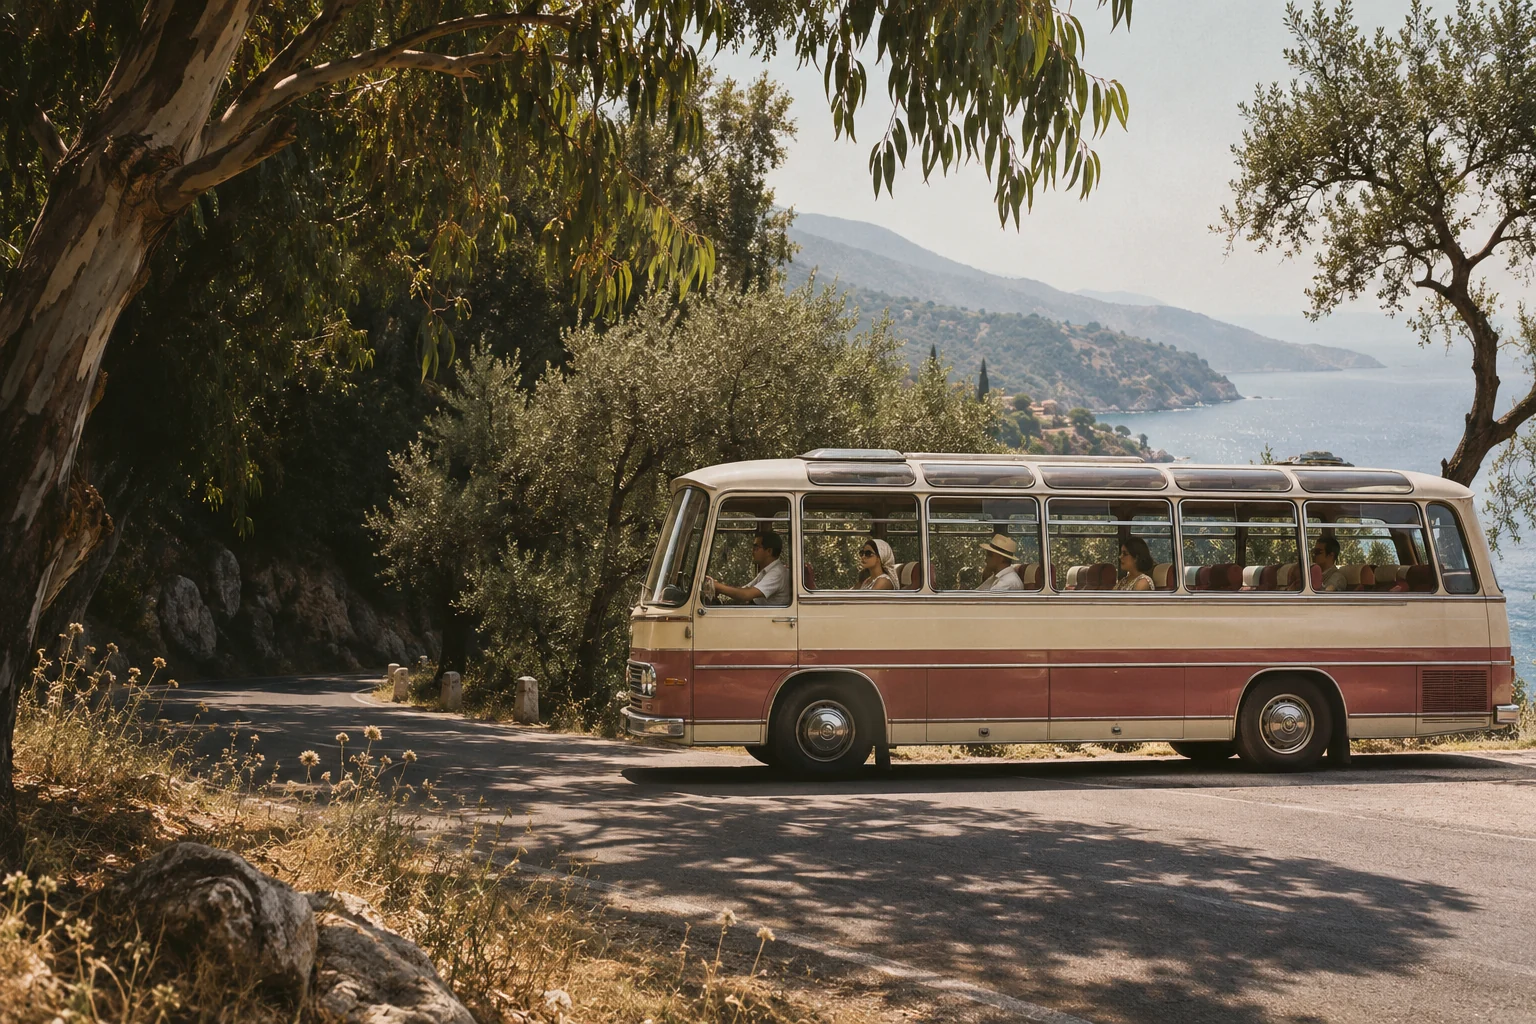
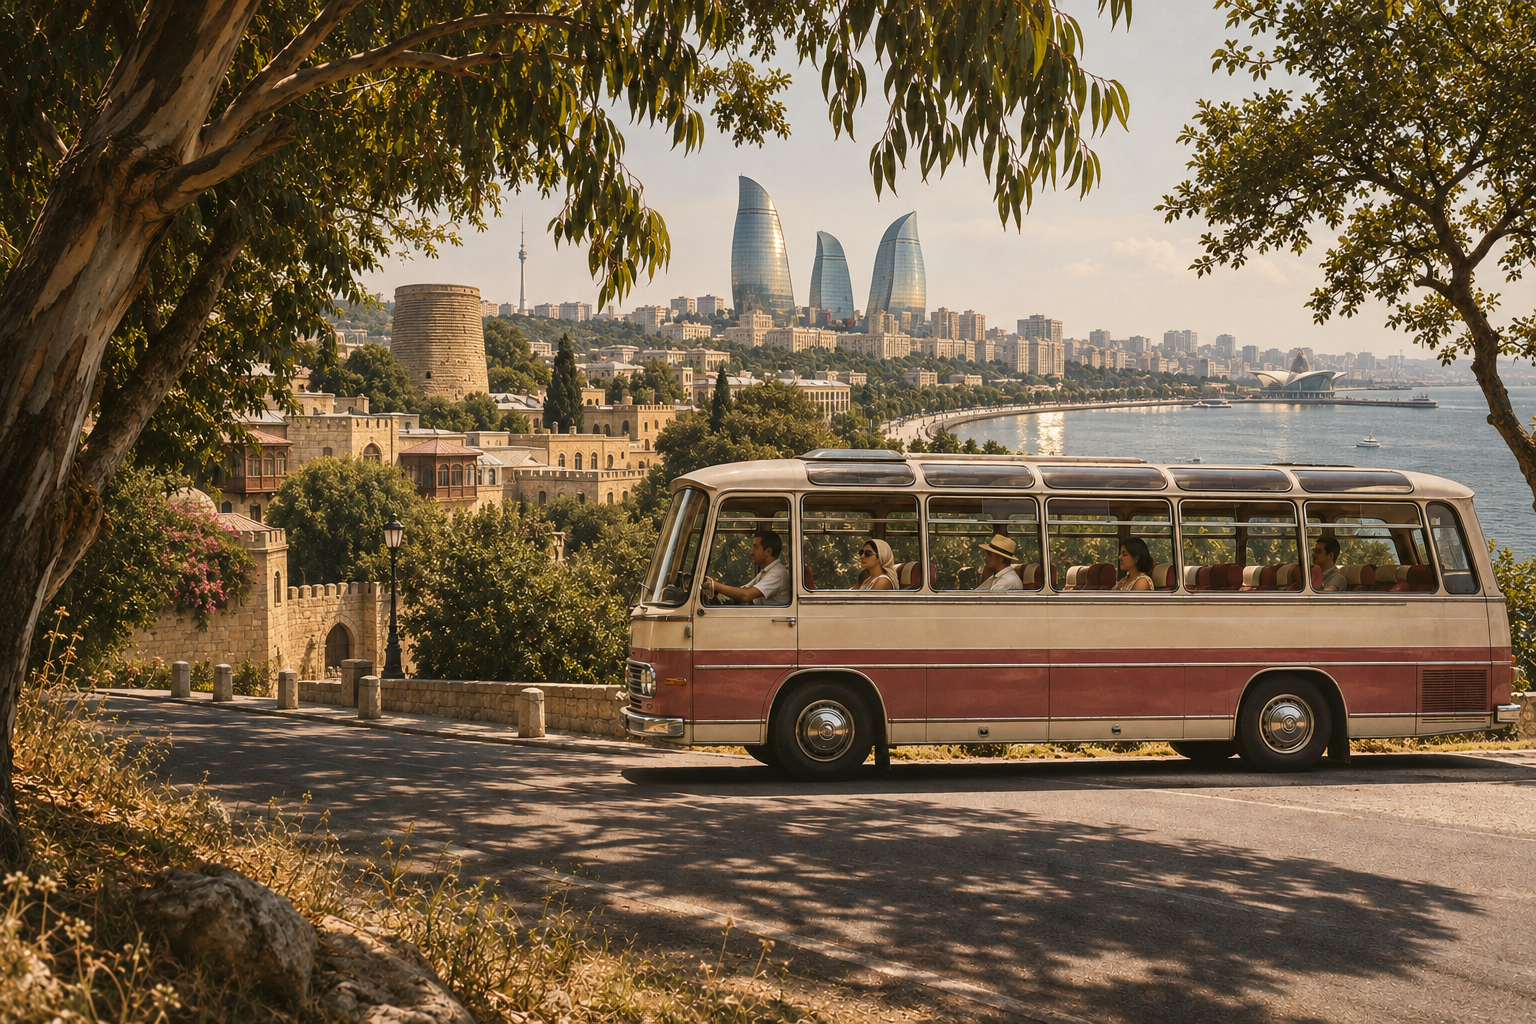
fifth commit

diff --git a/frontend/src/i18n/LangContext.tsx b/frontend/src/i18n/LangContext.tsx
@@ -33,8 +33,11 @@ export function LangProvider({ lang, children }: { lang: Lang; children: ReactNo
   return <LangCtx.Provider value={value}>{children}</LangCtx.Provider>;
 }
 
+/** Language used when the visitor has not chosen one yet */
+export const DEFAULT_LANG: Lang = 'en';
+
 export const defaultLang = (): Lang => {
   const saved = localStorage.getItem('pt_lang');
   if (saved === 'az' || saved === 'en') return saved;
-  return navigator.language?.toLowerCase().startsWith('az') ? 'az' : 'en';
+  return DEFAULT_LANG;
 };

diff --git a/frontend/index.html b/frontend/index.html
@@ -1,5 +1,5 @@
 <!doctype html>
-<html lang="az">
+<html lang="en">
   <head>
     <meta charset="UTF-8" />
     <meta name="viewport" content="width=device-width, initial-scale=1" />
